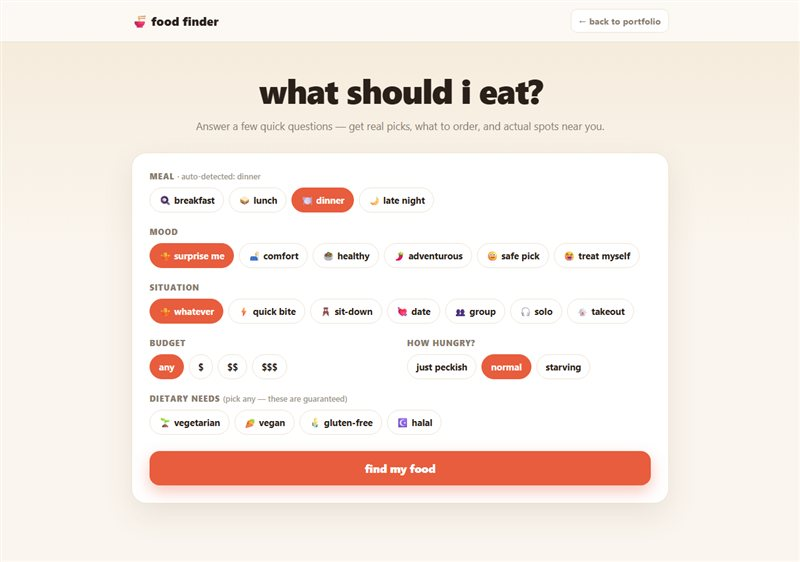
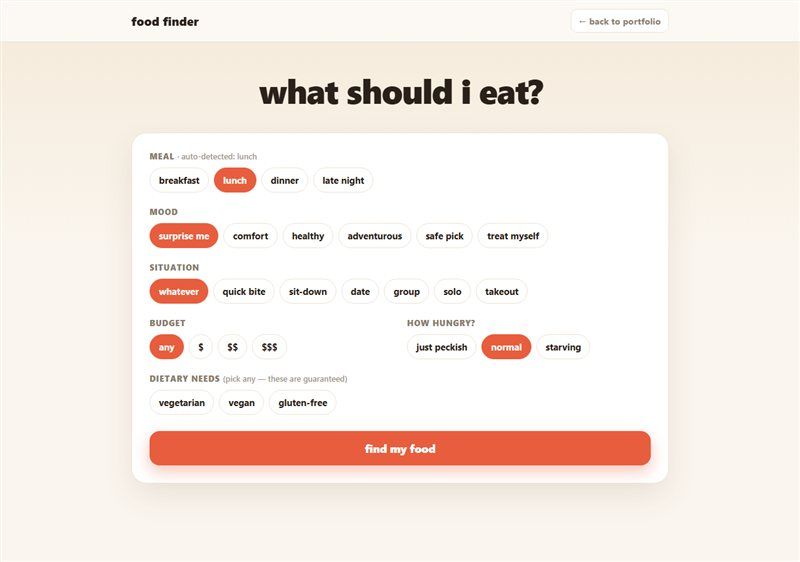
Clean up Food Finder: drop subheader, emojis, and halal option
- Remove the hero subheader line
- Strip emojis from the brand, form chips, and result cards for a
  cleaner, more professional look
- Remove the halal dietary option from chips and scoring
- Refresh the landing card preview to match

diff --git a/FoodFinder/food.html b/FoodFinder/food.html
@@ -10,7 +10,7 @@
 <body>
   <header class="topbar">
     <div class="topbar-inner">
-      <h1 class="brand">🍜 food finder</h1>
+      <h1 class="brand">food finder</h1>
       <a class="back" href="../index.html">← back to portfolio</a>
     </div>
   </header>
@@ -18,42 +18,41 @@
   <main class="app">
     <section class="hero">
       <h2>what should i eat?</h2>
-      <p>Answer a few quick questions — get real picks, what to order, and actual spots near you.</p>
     </section>
 
     <section class="card" aria-label="Preferences">
       <div class="field">
         <span class="field-label">meal <span class="auto-note" id="autoNote"></span></span>
         <div class="chips" id="mealChips" role="group" aria-label="Meal">
-          <button type="button" class="chip" data-value="breakfast">🍳 breakfast</button>
-          <button type="button" class="chip" data-value="lunch">🥪 lunch</button>
-          <button type="button" class="chip" data-value="dinner">🍽 dinner</button>
-          <button type="button" class="chip" data-value="latenight">🌙 late night</button>
+          <button type="button" class="chip" data-value="breakfast">breakfast</button>
+          <button type="button" class="chip" data-value="lunch">lunch</button>
+          <button type="button" class="chip" data-value="dinner">dinner</button>
+          <button type="button" class="chip" data-value="latenight">late night</button>
         </div>
       </div>
 
       <div class="field">
         <span class="field-label">mood</span>
         <div class="chips" id="moodChips" role="group" aria-label="Mood">
-          <button type="button" class="chip" data-value="any">🤷 surprise me</button>
-          <button type="button" class="chip" data-value="comfort">🛋 comfort</button>
-          <button type="button" class="chip" data-value="healthy">🥗 healthy</button>
-          <button type="button" class="chip" data-value="adventurous">🌶 adventurous</button>
-          <button type="button" class="chip" data-value="safe">🙂 safe pick</button>
-          <button type="button" class="chip" data-value="indulgent">🤤 treat myself</button>
+          <button type="button" class="chip" data-value="any">surprise me</button>
+          <button type="button" class="chip" data-value="comfort">comfort</button>
+          <button type="button" class="chip" data-value="healthy">healthy</button>
+          <button type="button" class="chip" data-value="adventurous">adventurous</button>
+          <button type="button" class="chip" data-value="safe">safe pick</button>
+          <button type="button" class="chip" data-value="indulgent">treat myself</button>
         </div>
       </div>
 
       <div class="field">
         <span class="field-label">situation</span>
         <div class="chips" id="situationChips" role="group" aria-label="Situation">
-          <button type="button" class="chip" data-value="any">🤷 whatever</button>
-          <button type="button" class="chip" data-value="quick">⚡ quick bite</button>
-          <button type="button" class="chip" data-value="sitdown">🪑 sit-down</button>
-          <button type="button" class="chip" data-value="date">💘 date</button>
-          <button type="button" class="chip" data-value="group">👥 group</button>
-          <button type="button" class="chip" data-value="solo">🎧 solo</button>
-          <button type="button" class="chip" data-value="takeout">🥡 takeout</button>
+          <button type="button" class="chip" data-value="any">whatever</button>
+          <button type="button" class="chip" data-value="quick">quick bite</button>
+          <button type="button" class="chip" data-value="sitdown">sit-down</button>
+          <button type="button" class="chip" data-value="date">date</button>
+          <button type="button" class="chip" data-value="group">group</button>
+          <button type="button" class="chip" data-value="solo">solo</button>
+          <button type="button" class="chip" data-value="takeout">takeout</button>
         </div>
       </div>
 
@@ -81,10 +80,9 @@
       <div class="field">
         <span class="field-label">dietary needs <span class="field-hint">(pick any — these are guaranteed)</span></span>
         <div class="chips" id="dietChips" role="group" aria-label="Dietary needs">
-          <button type="button" class="chip" data-value="vegetarian">🌱 vegetarian</button>
-          <button type="button" class="chip" data-value="vegan">🥕 vegan</button>
-          <button type="button" class="chip" data-value="glutenfree">🌾 gluten-free</button>
-          <button type="button" class="chip" data-value="halal">☪ halal</button>
+          <button type="button" class="chip" data-value="vegetarian">vegetarian</button>
+          <button type="button" class="chip" data-value="vegan">vegan</button>
+          <button type="button" class="chip" data-value="glutenfree">gluten-free</button>
         </div>
       </div>
 

diff --git a/FoodFinder/food.js b/FoodFinder/food.js
@@ -374,7 +374,7 @@ document.getElementById("autoNote").textContent = `· auto-detected: ${MEAL_LABE
 // ---------------------------------------------------------------------------
 // SCORING
 // ---------------------------------------------------------------------------
-const DIET_KEYS = { vegetarian: "v", vegan: "vg", glutenfree: "gf", halal: "h" };
+const DIET_KEYS = { vegetarian: "v", vegan: "vg", glutenfree: "gf" };
 
 function rankFoods(excludeShown) {
   const candidates = FOODS.filter((f) => {
@@ -523,7 +523,6 @@ function showResults(isReroll) {
       ${picks.map((f, i) => `
         <article class="food-result ${i === 0 ? "food-result--top" : ""}">
           <div class="fr-head">
-            <span class="fr-emoji">${f.emoji}</span>
             <div class="fr-title">
               <div class="fr-rank-row">
                 <span class="rank">#${i + 1}${i === 0 ? " · best match" : ""}</span>
@@ -538,7 +537,7 @@ function showResults(isReroll) {
 
           ${f.reasons.length ? `
             <ul class="reasons">
-              ${f.reasons.map((r) => `<li>${r.icon} ${r.text}</li>`).join("")}
+              ${f.reasons.map((r) => `<li>${r.text}</li>`).join("")}
             </ul>` : ""}
 
           <div class="order-box">
@@ -546,10 +545,10 @@ function showResults(isReroll) {
             <ul>${f.dishes.map((d) => `<li>${d}</li>`).join("")}</ul>
           </div>
 
-          <p class="pro-tip">💡 ${f.tip}</p>
+          <p class="pro-tip">${f.tip}</p>
 
           <div class="fr-actions">
-            <button class="nearby-btn" type="button" data-food="${f.name}">📍 find real spots near me</button>
+            <button class="nearby-btn" type="button" data-food="${f.name}">find real spots near me</button>
             <a class="maps-link" href="https://www.google.com/maps/search/${encodeURIComponent(mapsQuery(f))}" target="_blank" rel="noopener noreferrer">
               open in google maps →
             </a>
@@ -600,7 +599,7 @@ async function findNearby(foodName, btn) {
   if (!f || !box) return;
 
   btn.disabled = true;
-  box.innerHTML = `<p class="nearby-status">📡 finding your location…</p>`;
+  box.innerHTML = `<p class="nearby-status">finding your location…</p>`;
 
   let coords;
   try {
@@ -611,7 +610,7 @@ async function findNearby(foodName, btn) {
     return;
   }
 
-  box.innerHTML = `<p class="nearby-status">🔎 searching real restaurants nearby…</p>`;
+  box.innerHTML = `<p class="nearby-status">searching real restaurants nearby…</p>`;
 
   const query = `
     [out:json][timeout:15];
